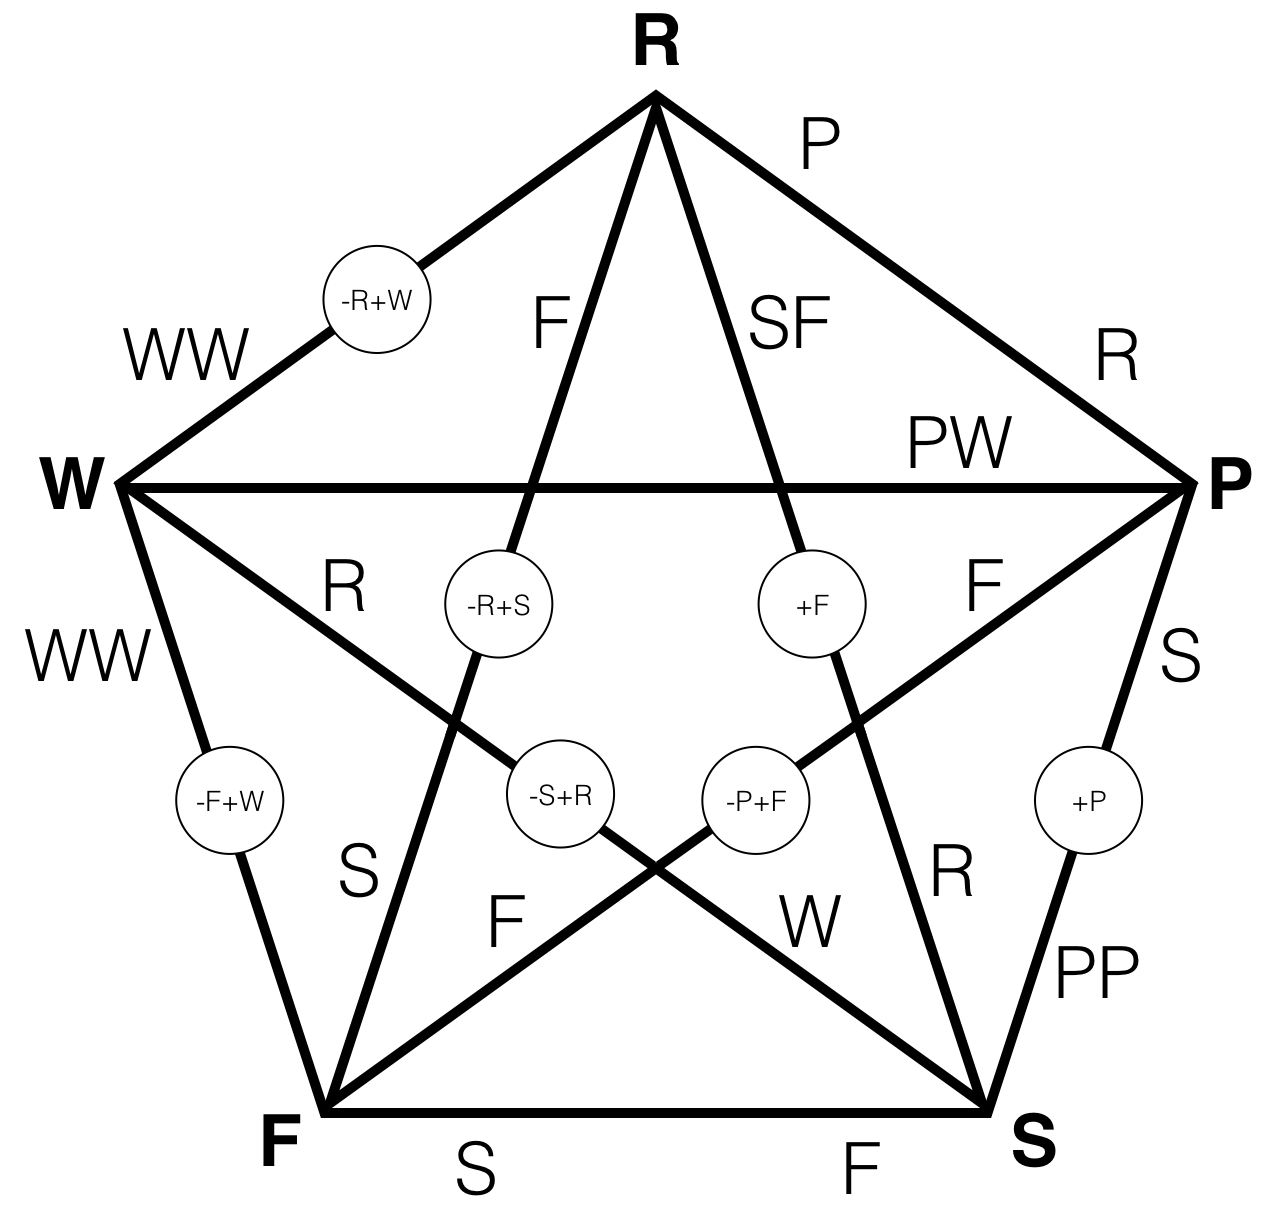
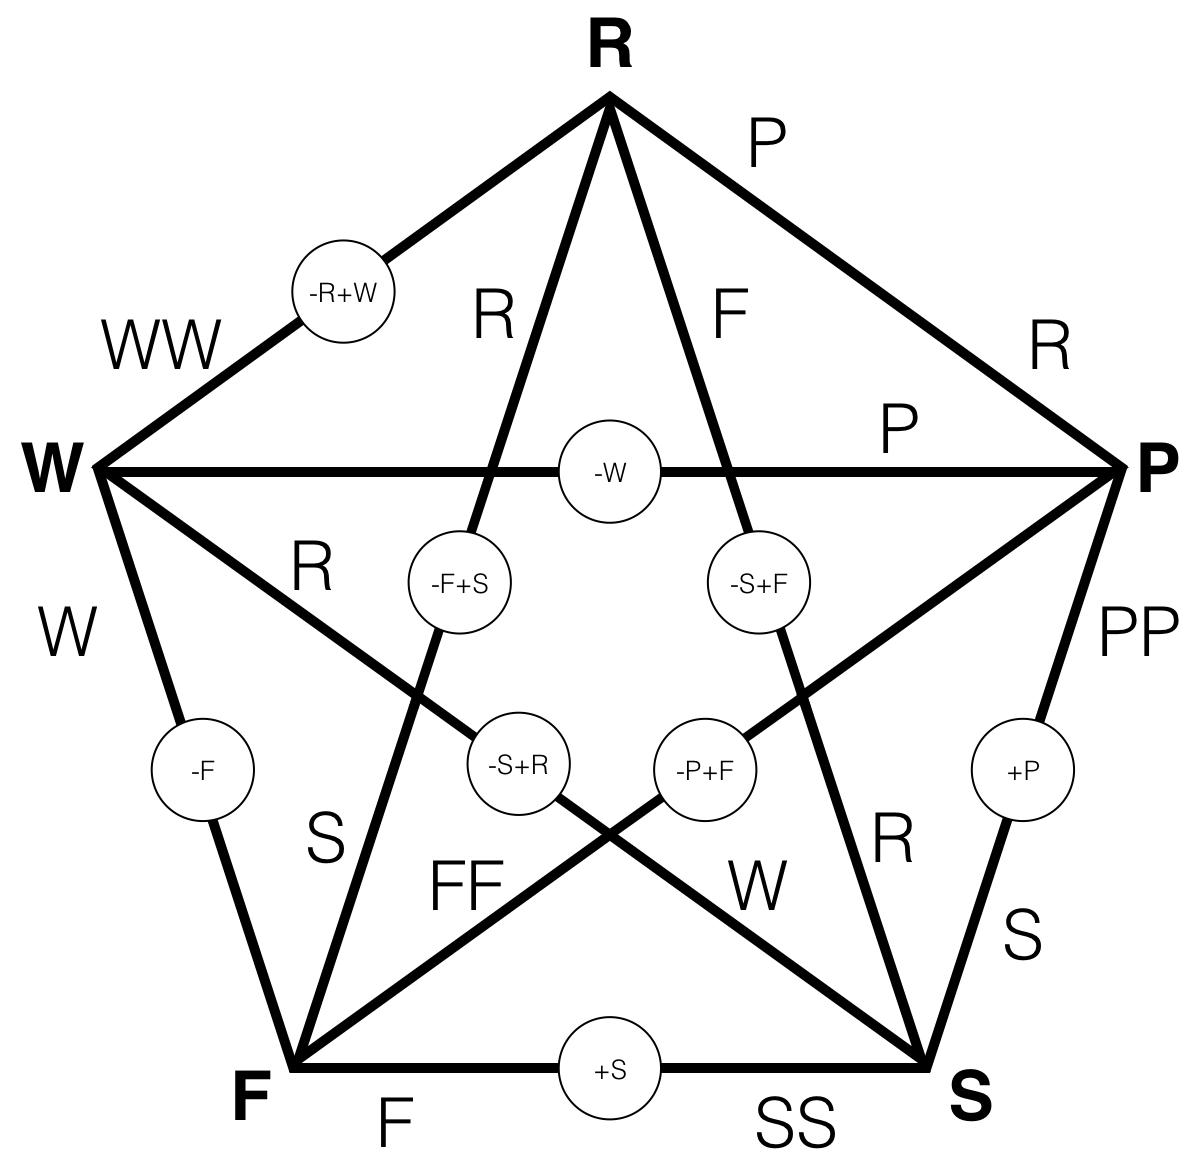
Edited README for balance version.

diff --git a/README.md b/README.md
@@ -8,7 +8,7 @@ By Lee Spector
 
 Rock Paper Stuff is a game designed for artificial intelligence experiments and education. 
 
-The game itself is intended to be played by computer players, each of which aims to earn the highest score.
+The game itself is intended to be played by computer players, each of which aims to achieve the best balance among five resources: Rock, Paper, Scissors, Fire, and Water.
 
 The goal for students and researchers is to develop computer players that win games and tournaments.
 
@@ -19,13 +19,13 @@ Any number of players can play.
 
 Players are paired randomly for trades, one pair at a time. Sometimes the trades cause some of the traded things to be lost or other things to be created (details below).
 
-For each trade, each player plays one of: Rock, Paper, Scissors, Fire, Water. 
+For each trade, each player plays one of: Rock, Paper, Scissors, Fire, or Water. 
 
 Players start with five times as many of each of these as there are players. For example, if there are four players, then each player begins with twenty Rock, twenty Paper, twenty Scissors, twenty Fire, and twenty Water.
 
-Players can only play what they have. If they try to play something that they don't have, then one of the kinds of things that they do have will be chosen randomly, and a thing of that kind will be played for it. If they run out of everything, then they die and participate in no more trades.
+Players can only play what they have. If they try to play something that they don't have, then one of the kinds of things that they do have will be chosen randomly, and a thing of that kind will be played. If they run out of everything, then they die, participate in no more trades, and can't win. (The dead are perfectly balanced, but losers nonetheless!)
 
-A player's score is the amount of Water that it has at the end of the game.
+A player's balance is measured as the standard deviation of its amounts of stuff, with a deviation of zero meaning that the player is perfectly balanced, and higher deviations being worse. Intuitively, the more spread out the amounts are, the higher the deviation will be, and the worse the player is doing. Technically, the deviation is calculated by taking all of a player's amounts of stuff, averaging them, looking at how far each is from the average, squaring each of those distances, averaging those squares, and then taking the square root of that average.
 
 The number of trades in a game is the number of possible pairings times 100. For a two-player game, this is 100 trades. For a three-player game, 300 trades. For a four-player game, 600 trades. In general, the number of trades is *100n(n-1)/2* where *n* is the number of players. Because pairings are indepedently random, different players may participate in somewhat different numbers of trades, and different pairings may occur somewhat different numbers of times.
 
@@ -33,25 +33,27 @@ Although players can't see what each other are going to play before they choose 
 
 ### Trades
 
-- If A plays Rock and B plays Scissors, then A gets Scissors and Fire, and B gets Rock (Rock sparks fire from Scissors)
+- If A plays Rock and B plays Paper, then A gets Paper, and B gets Rock (simple exchange).
 
-- If A plays Rock and B plays Fire, then A gets Fire and B gets Scissors (Fire forges Rock into Scissors)
+- If A plays Rock and B plays Scissors, then A gets Fire, and B gets Rock (Rock sparks fire from Scissors)
 
-- If A plays Rock and B plays Water, then A gets nothing and B gets two Water (Rock sinks and splashes back Water)
+- If A plays Rock and B plays Fire, then A gets Rock, and B gets Scissors (Fire forges Rock into Scissors)
 
-- If A plays Paper and B plays Scissors, then A gets Scissors and B gets two Paper (Scissors cuts paper into two)
+- If A plays Rock and B plays Water, then A gets nothing, and B gets two Water (Rock sinks and splashes back Water)
 
-- If A plays Paper and B plays Fire, then A gets Fire and B gets Fire (Fire lights Paper)
+- If A plays Paper and B plays Scissors, then A gets two Paper, and B gets Scissors (Scissors cuts paper into two)
 
-- If A plays Paper and B plays Water, then A gets Paper and Water and B gets Nothing (Paper absorbs Water)
+- If A plays Paper and B plays Fire, then A gets nothing, and B gets two Fire (Fire lights Paper)
+
+- If A plays Paper and B plays Water, then A gets Paper, and B gets Nothing (Paper absorbs Water)
 
 - If A plays Scissors and B plays Water, then A gets Water and B gets Rock (Water rusts Scissors into Rock)
 
-- If A plays Fire and B plays Water, then A gets nothing and B gets two Water (Water extinguishes Fire)
+- If A plays Fire and B plays Water, then A gets nothing and B gets Water (Water extinguishes Fire)
 
-For all other trades, the played items are simply exchanged.
+When both players play the same kind of stuff, it sticks together and one of the players (chosen randomly) will get both, while the other gets nothing.
 
-These rules are summarized in the following diagram, in which the circled abbreviations show the overall loss/gain to the ecosystem resulting from the specific trade:
+These rules are summarized in the following diagram, in which the circled abbreviations show the overall loss/gain to the ecosystem resulting from the specific trade. The rule about plays of the same kind of stuff sticking together isn't shown in the diagram.
 
 ![RPS diagram](rps.png)
 
